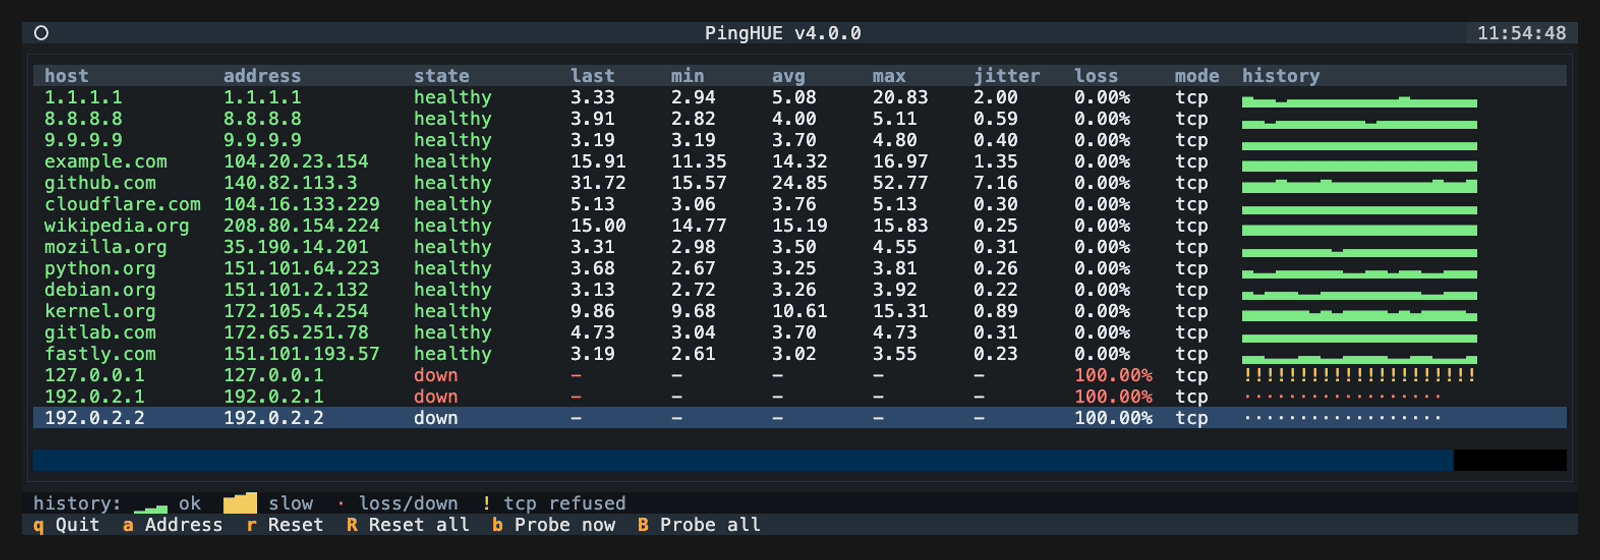
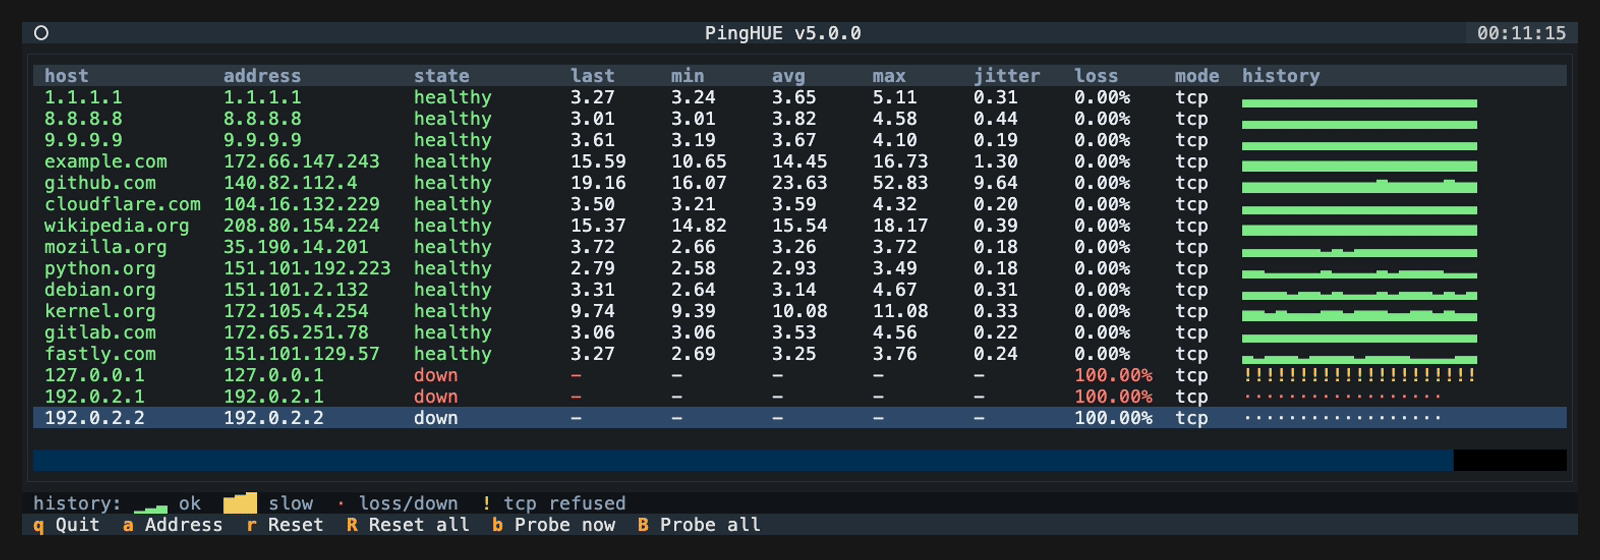
release: prepare 5.0.0

diff --git a/docs/index.html b/docs/index.html
@@ -167,7 +167,7 @@
       <pre class="json"><code><span class="prompt">$</span> pinghue -f hosts.txt --duration 180 --output maintenance.json
 <span class="jk">{</span>
   <span class="jq">"schema_version"</span>: <span class="jn">1</span>,
-  <span class="jq">"pinghue_version"</span>: <span class="js">"4.0.0"</span>,
+  <span class="jq">"pinghue_version"</span>: <span class="js">"5.0.0"</span>,
   <span class="jq">"run"</span>: { <span class="jq">"host"</span>: <span class="js">"local"</span>, <span class="jq">"exit_reason"</span>: <span class="js">"deadline"</span>, <span class="jc">…</span> },
   <span class="jq">"targets"</span>: [
     { <span class="jq">"target"</span>: <span class="js">"db-primary"</span>, <span class="jq">"status"</span>: <span class="js c-amber">"intermittent"</span>,

diff --git a/tests/test_repository_hardening.py b/tests/test_repository_hardening.py
@@ -596,9 +596,16 @@ def test_hardening_scripts_paginate_ruleset_and_deployment_policy_inventories() 
         "scripts/apply-github-hardening.sh",
     ):
         script = read(path)
-        assert script.count("--paginate --slurp") >= 2
+        assert script.count("--paginate") >= 2
         assert '"repos/${repo}/rulesets"' in script
         assert '"repos/${repo}/environments/pypi/deployment-branch-policies"' in script
+        logical_lines = script.replace("\\\n", " ").splitlines()
+        assert not any(
+            "gh api" in line
+            and "--slurp" in line
+            and ("--jq" in line or "--template" in line)
+            for line in logical_lines
+        )
 
 
 def _run_repository_hardening_check(

diff --git a/packaging/homebrew/pinghue.rb b/packaging/homebrew/pinghue.rb
@@ -10,8 +10,8 @@ class Pinghue < Formula
 
   desc "Colored, concurrent ICMP/TCP ping monitor for the terminal"
   homepage "https://github.com/inxbit/pinghue"
-  url "https://files.pythonhosted.org/packages/ab/24/53f9e622ade0e160b5ba57307dc340c5b367241ca77daa27a9e4a0047159/pinghue-4.0.0.tar.gz"
[1 lines of base64/hex data omitted]
+  url "https://files.pythonhosted.org/packages/source/p/pinghue/pinghue-5.0.0.tar.gz"
[1 lines of base64/hex data omitted]
   license "MIT"
   head "https://github.com/inxbit/pinghue.git", branch: "main"
 

diff --git a/tests/test_github_hardening_apply.py b/tests/test_github_hardening_apply.py
@@ -16,6 +16,10 @@ scenario = json.loads(Path(os.environ["FAKE_GH_SCENARIO"]).read_text(encoding="u
 with open(os.environ["FAKE_GH_LOG"], "a", encoding="utf-8") as handle:
     handle.write(json.dumps(args) + "\\n")
 
+if "--slurp" in args and "--jq" in args:
+    print("the `--slurp` option is not supported with `--jq`", file=sys.stderr)
+    raise SystemExit(2)
+
 if args[:3] == ["api", "user", "--jq"]:
     print(str(scenario.get("viewer_id", 42)))
     raise SystemExit

diff --git a/security-best-practices-report.md b/security-best-practices-report.md
@@ -2,7 +2,7 @@
 
 ## Status
 
-Review date: 2026-07-10
+Review date: 2026-07-11
 
 No open critical or high-severity vulnerability was found in the local
 CLI/runtime code. The reviewed implementation is a local, unprivileged
@@ -10,10 +10,10 @@ ICMP/TCP monitoring tool: it opens no inbound service, handles no credentials,
 uses no runtime shell execution, and has no authentication, database, template,
 or unsafe-deserialization surface.
 
-One release-blocking hosted-hardening finding remains open. Live read-only
-verification found several GitHub settings weaker than their checked-in
-baselines. The code now detects these conditions fail-closed, but the hosted
-settings have not been changed by this repository review.
+No release-blocking hosted-hardening finding remains open. The checked-in
+baseline was applied to GitHub, administrator bypass was disabled manually on
+the protected `pypi` environment, and the administration-readable fail-closed
+check passed on 2026-07-11.
 
 ## Scope
 
@@ -31,9 +31,9 @@ Reviewed:
 The companion `pinghue-threat-model.md` records assets, trust boundaries,
 attacker capabilities, abuse paths, residual risk, and review triggers.
 
-## Open findings and residual risk
+## Findings and residual risk
 
-### BP-001 — Hosted release/security settings drift (Medium, open)
+### BP-001 — Hosted release/security settings drift (Medium, resolved 2026-07-11)
 
 The 2026-07-10 live read found:
 
@@ -69,9 +69,10 @@ Repository remediation completed:
   GraphQL update inputs do not accept the field, so that setting remains a
   manual UI operation.
 
-Required closure: apply the hosted baseline with explicit authorization,
-disable `pypi` administrator bypass in GitHub's settings UI, and rerun the
-fail-closed check successfully before release.
+Closure evidence: the tracked baseline was applied with explicit authorization,
+the `pypi` environment's administrator bypass was disabled in GitHub's settings
+UI, and `scripts/check-github-hardening.sh inxbit/pinghue` passed with
+repository-administration visibility on 2026-07-11.
 
 ### BP-002 — Some output installation paths are not crash-atomic (Low, accepted)
 
@@ -120,7 +121,7 @@ requires the next major release; it must not ship as a patch or minor version.
 | Artifact reproducibility | Incrementally bounds/validates sdist members and canonicalizes bytes; required CI builds from two independent source trees with different mtimes and compares wheel/sdist bytes. |
 | Artifact execution | The tag workflow installs and runs both exact distributions against localhost TCP and blocks when the staged Homebrew version/SHA differs from the built sdist. |
 | Sdist smoke build | Installs the exact hash-pinned build backend before the no-build-isolation source-distribution smoke test. |
-| Hosted hardening | Fails closed on unclassified API errors, missing fields, reviewer substitution, bypasses, rule/status inventory drift, and status-check source changes. |
+| Hosted hardening | Fails closed on unclassified API errors, missing fields, reviewer substitution, bypasses, rule/status inventory drift, and status-check source changes; the tracked baseline and manual administrator-bypass control were reconciled and verified live on 2026-07-11. |
 | Sdist contract | Excludes repository-only hardening/normalizer tests and maintainer-only contribution/release/hardening documents whose tooling is intentionally absent. |
 
 ## Secure defaults observed
@@ -168,17 +169,19 @@ requires the next major release; it must not ship as a patch or minor version.
   normalized sdists and byte-identical wheels with `SOURCE_DATE_EPOCH=0`.
 - The final normalized sdist and wheel passed `twine check`; all 243 tests
   shipped in the unpacked sdist passed; fresh wheel and sdist installs both
-  reported `pinghue 4.0.0` through the installed launcher.
+  reported `pinghue 5.0.0` through the installed launcher and completed the
+  localhost TCP smoke test.
 - ShellCheck and Bash syntax checks passed for shell scripts; Homebrew formula
   Ruby syntax passed.
-- The live hosted-hardening check correctly failed on current drift; it is not
-  reported as passing.
+- The administration-readable hosted-hardening check passed after reconciling
+  the tracked baseline and disabling `pypi` administrator bypass.
 
 ## Release decision
 
-Local code, tests, locks, and deterministic artifact controls passed the
-release-preparation checks. Publishing remains blocked until BP-001 is
-corrected and the breaking target cap is assigned a new major version.
+The breaking target cap is assigned to 5.0.0 and BP-001 is closed. The local
+candidate passed the security, QA, deterministic-artifact, installed-artifact,
+and staged-formula gates. Publishing remains gated on release-PR review and
+exact-head CI.
 
 Revisit this report if PingHue gains a listener, privileged wrapper, remote
 inventory source, credential handling, plugin execution, subprocess probes, a

diff --git a/pinghue-threat-model.md b/pinghue-threat-model.md
@@ -45,8 +45,9 @@ Assumptions:
   baselines with an administration-readable token.
 - Release security requires administrators to be manually prevented from
   bypassing the protected `pypi` environment. GitHub exposes the field for
-  verification but not through its supported update inputs. The 2026-07-10
-  live check found bypass enabled, so publishing is blocked until corrected.
+  verification but not through its supported update inputs. The 2026-07-11
+  administration-readable check confirmed that bypass is disabled and the
+  complete tracked hosted-hardening baseline matches live state.
 
 Open questions:
 
@@ -214,7 +215,7 @@ external dependencies, so fresh audits remain a release gate.
   every release.
 - The `pypi` environment's administrator bypass is disabled manually and
   verified before release; its exact required-reviewer identity also matches
-  the checked-in baseline. Current live drift must be corrected first.
+  the checked-in baseline.
 
 ## Review triggers
 

diff --git a/README.md b/README.md
@@ -22,7 +22,7 @@
 
 `pinghue` is a colored, concurrent ICMP/TCP ping monitor for maintenance windows. It gives operators a dense terminal view for many hosts at once and can also write structured JSON for reports, cron jobs, and CI checks.
 
-Current version: `4.0.0`. The command-line interface and JSON output are stable public interfaces. JSON output uses `schema_version: 1`; breaking JSON changes require a new schema version.
+Current version: `5.0.0`. The command-line interface and JSON output are stable public interfaces. JSON output uses `schema_version: 1`; breaking JSON changes require a new schema version.
 
 <p align="center">
   <img src="https://raw.githubusercontent.com/inxbit/pinghue/main/docs/assets/pinghue-demo.gif" alt="real pinghue terminal recording: healthy hosts with green history bars, a TCP-refused host with amber markers, and unreachable hosts down in red" width="920">

diff --git a/CHANGELOG.md b/CHANGELOG.md
@@ -6,9 +6,12 @@ Starting with `1.0.0`, this project follows semantic versioning. CLI flags and J
 
 ## [Unreleased]
 
+## 5.0.0 - 2026-07-11
+
 ### Breaking
 
 - Limited each run to 5,000 unique targets and reduced per-target sample tails uniformly when needed to keep retained history within 100,000 samples total; whole-run statistics remain unbounded counters. The target cap invokes the documented resource-safety exception to the deprecation window and requires the next major release.
+- Changed `--overwrite` to refuse multiply linked regular files and perform a descriptor-verified, non-crash-atomic in-place rewrite instead of replacing the inode; workflows that require crash-atomic evidence rotation should write a new report and rotate it only after PingHue exits successfully.
 
 ### Security
 

diff --git a/SECURITY.md b/SECURITY.md
@@ -6,8 +6,8 @@ Security fixes are provided for the latest stable release line.
 
 | Version | Supported |
 | --- | --- |
-| `4.x` | Yes |
-| `<4.0` | No |
+| `5.x` | Yes |
+| `<5.0` | No |
 
 ## Reporting a Vulnerability
 
